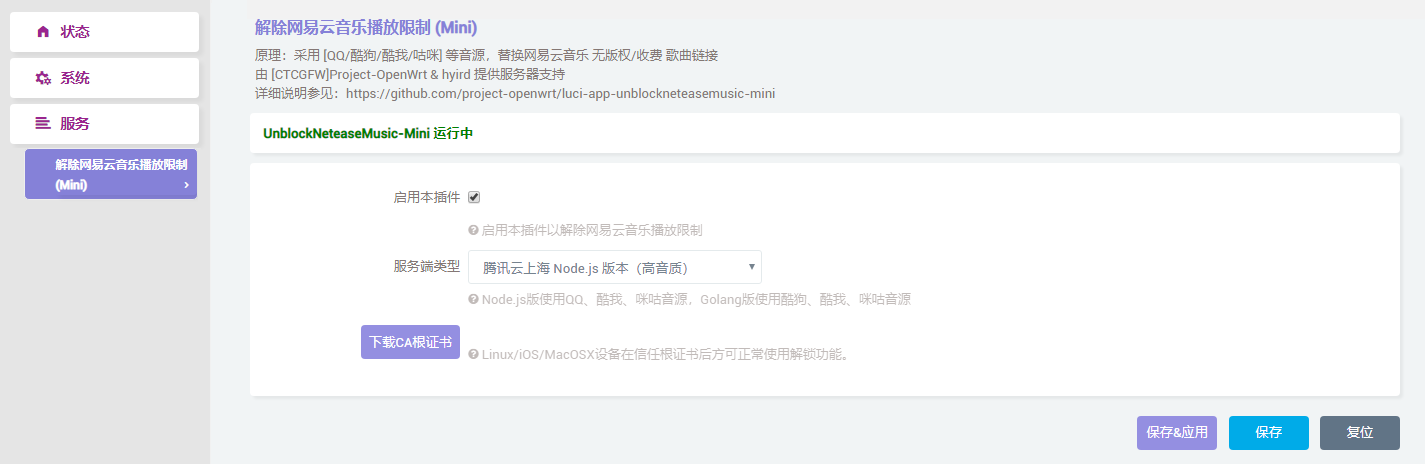
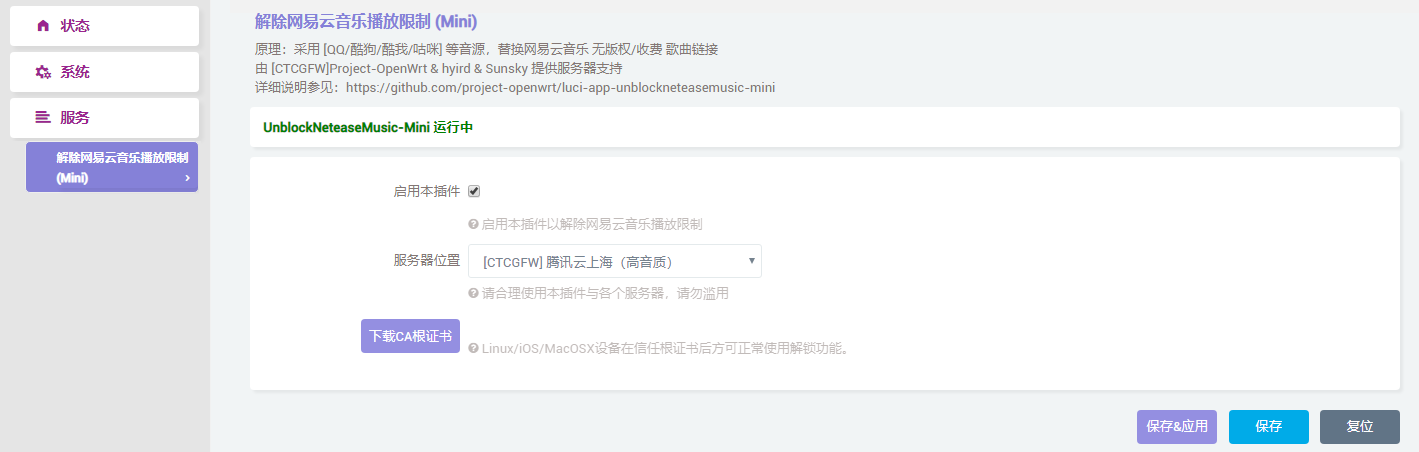
add Sunsky3's server

diff --git a/README.md b/README.md
@@ -1,6 +1,6 @@
 # PROJECT OPENWRT
 ## [OpenWrt] 解除网易云音乐播放限制 [Mini Ver]
-### Powered by [\[CTCGFW\]Project OpenWrt](https://github.com/project-openwrt) & [hyird](https://t.me/hyird).
+### Powered by [\[CTCGFW\]Project OpenWrt](https://github.com/project-openwrt) & [hyird](https://t.me/hyird) & [Sunsky](https://t.me/Sunsky3).
 ### Welcome to our Telegram group: [@ctcgfw\_openwrt\_discuss](https://t.me/ctcgfw\_openwrt\_discuss).
 - - -
 # 使用说明
